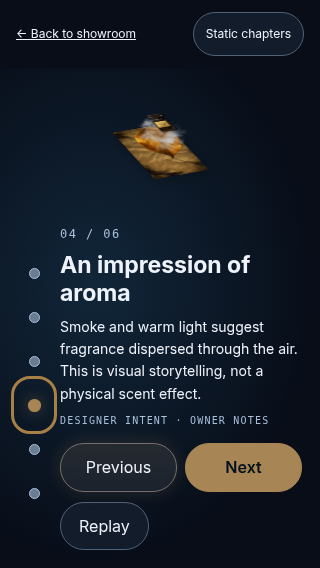
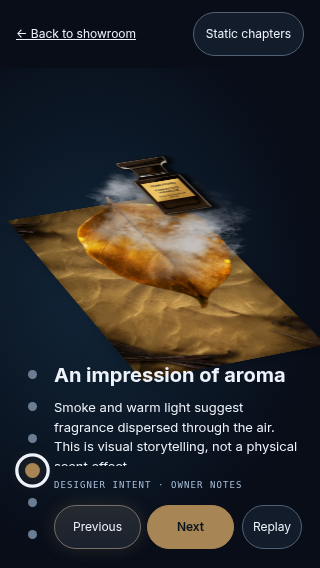
fix(case-study): prioritize artwork in mobile presentation

diff --git a/case-studies/shared/reference.css b/case-studies/shared/reference.css
@@ -57,3 +57,18 @@ html[data-case="tomford"] .leader path{stroke:#e0a725;filter:drop-shadow(0 0 4px
 /* Focus belongs to the dot, never a surrounding button frame. */
 #chapters button:focus{outline:none}
 #chapters button:focus-visible::after{outline:2px solid #eef2fa;outline-offset:4px}
+/* Mobile balance: reserve the stage for artwork and keep actions in one row. */
+@media(max-width:700px){
+ .embedded-mode .board{width:min(60vw,34svh,80cqh)}
+ .pin aside{grid-template-columns:28px minmax(0,1fr);gap:8px}
+ #chapters button{width:28px;min-width:28px;height:32px;min-height:32px}
+ .chapter-content{display:flex;flex-wrap:wrap;align-items:center;column-gap:8px}
+ .chapter-content>*{width:100%}
+ .chapter-content #counter{display:none}
+ .chapter-content h2{font-size:20px;line-height:1.2;margin:4px 0}
+ .chapter-content #chapter-copy{font-size:13px;line-height:1.5;margin:6px 0;max-height:12svh;overflow:auto;overscroll-behavior:contain}
+ .chapter-content .source{font-size:9px;margin:4px 0}
+ .chapter-actions{width:auto;flex:1;flex-wrap:nowrap;gap:6px;margin:8px 0 0}
+ .case-action{min-height:44px;padding:8px 10px;font-size:12px}
+ .chapter-content #replay{width:60px;min-height:44px;padding:8px 6px;margin-top:8px;font-size:12px}
+}

diff --git a/docs/case-study/TEST_REPORT.md b/docs/case-study/TEST_REPORT.md
@@ -77,3 +77,5 @@ Current authoritative report: TOMFORD_REPORT.md. PSD effect-aware master fidelit
 See NAVIGATION_REPORT.md.16 browser-size cases,4 touch cases,4 JBL reference cases,4 Node test files and one real software-GL Tom Ford cycle passed. New source is button-progress.mjs; scrolling no longer selects chapters. Screenshots/JSON retain conditions. Physical hardware/AT/full context-loss/10-cycle GPU trends remain NOT RUN.
 
 Dot refinement2026-11-27: active dot1.65×, project color and soft glow; no outer button frame or dot border. Keyboard-only focus stays on the dot. Browser evidence: evidence/navigation/dot-refinement.json. Artwork and timeline unchanged.
+
+Mobile balance2026-11-27: artwork width budget60vw/34svh/80% stage-height instead of40vw/22svh/50%; compact one-row actions retain44px targets, dot targets32px, long description scrolls within12svh. Desktop unaffected. Final browser matrix: evidence/navigation/tests.json; physical devices remain untested.

diff --git a/docs/case-study/HANDOFF.md b/docs/case-study/HANDOFF.md
@@ -10,3 +10,5 @@ Earth AI source unavailable per owner; notes-Earth.md pending in existing Drive 
 Tom Ford original source folder and JBL sources remain unchanged outside Git; lossless masters and provenance in repository. Tests/evidence and rollback are documented in NAVIGATION_REPORT.md. Physical-device/hardware/AT/full-context-loss limits remain open.
 
 Dot refinement2026-11-27: active dot1.65×, project color and soft glow; no outer button frame or dot border. Keyboard-only focus stays on the dot. Browser evidence: evidence/navigation/dot-refinement.json. Artwork and timeline unchanged.
+
+Mobile balance2026-11-27: artwork width budget60vw/34svh/80% stage-height instead of40vw/22svh/50%; compact one-row actions retain44px targets, dot targets32px, long description scrolls within12svh. Desktop unaffected. Final browser matrix: evidence/navigation/tests.json; physical devices remain untested.

diff --git a/docs/case-study/PROGRESS.md b/docs/case-study/PROGRESS.md
@@ -12,3 +12,5 @@ Earth: owner says layered AI unavailable and will supply notes-Earth.md in the e
 Open QA remains: physical devices, hardware GPU/FPS, AT, hardware Safari WebGL, full context-loss and ten-cycle actual GPU-memory trend. Keep docs/OPEN_VERIFICATION.md limits open.
 
 Dot refinement2026-11-27: active dot1.65×, project color and soft glow; no outer button frame or dot border. Keyboard-only focus stays on the dot. Browser evidence: evidence/navigation/dot-refinement.json. Artwork and timeline unchanged.
+
+Mobile balance2026-11-27: artwork width budget60vw/34svh/80% stage-height instead of40vw/22svh/50%; compact one-row actions retain44px targets, dot targets32px, long description scrolls within12svh. Desktop unaffected. Final browser matrix: evidence/navigation/tests.json; physical devices remain untested.

diff --git a/CHANGELOG.md b/CHANGELOG.md
@@ -1,5 +1,9 @@
 # Changelog
 
+## Unreleased — Mobile artwork balance, 2026-11-27
+
+- Give graphic artwork more mobile stage space, compact Previous/Next/Replay into one44px-high action row, and reduce chapter-dot hit rows to32px. Keep longer descriptions independently scrollable so actions remain visible. Desktop layout unchanged.
+
 ## Unreleased — Chapter dot refinement, 2026-11-27
 
 - Enlarge the active dot to1.65× with its project color and soft glow. Remove dot borders and surrounding button focus frames; keyboard-only focus is drawn around the dot itself.
